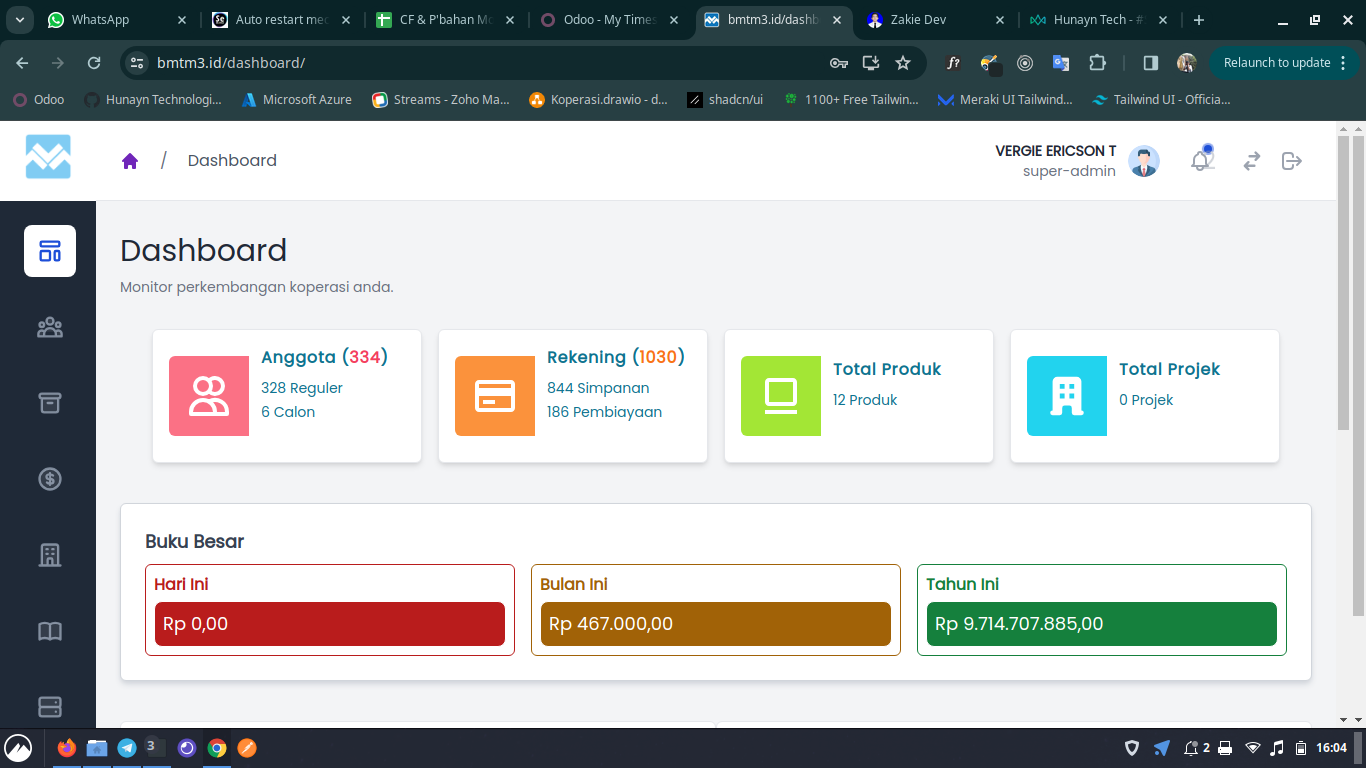
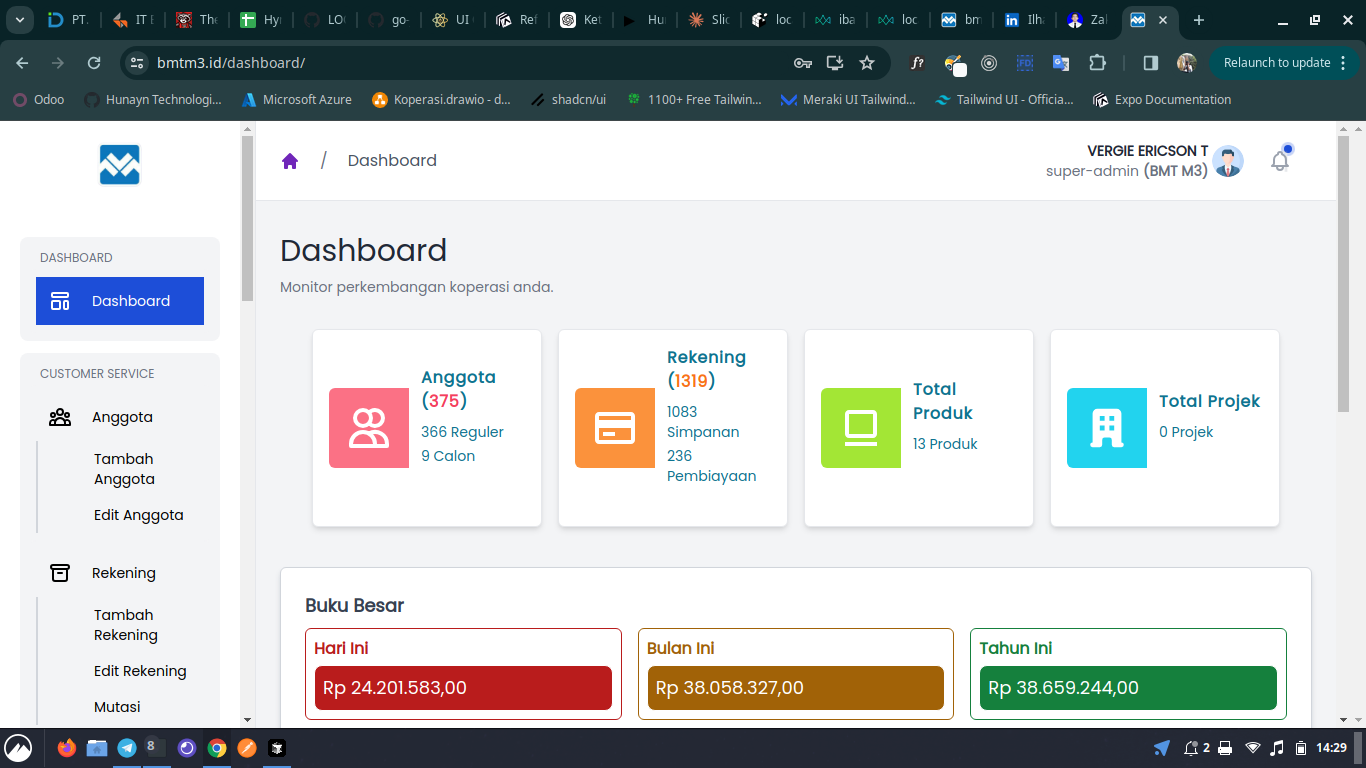
update web - 2januari2025

diff --git a/src/components/Details/Hunayn.js b/src/components/Details/Hunayn.js
@@ -3,8 +3,9 @@ import { useNavigate } from "react-router";
 import CompanyLogo from "../../assets/hunayn-logo.png";
 import { FaHome, FaFileAlt, FaPhotoVideo, FaYoutube } from "react-icons/fa";
 import Project1 from "../../assets/dashboard-syirkah.png";
-import Project2 from "../../assets/landing-company.png";
-import Project3 from "../../assets/jakarta-halal-expo.png";
+import Project2 from "../../assets/homescreen-ibank.png";
+import Project3 from "../../assets/landing-company.png";
+import Project4 from "../../assets/jakarta-halal-expo.png";
 import { motion } from "framer-motion";
 import { useProfile } from "../../context/ProfileContext";
 
@@ -38,15 +39,21 @@ const projects = [
   },
   {
     id: "project2",
-    title: "Landing Company",
-    description: "using svelte js",
+    title: "IBank Syirkah",
+    description: "using react native expo, typescript",
     imageUrl: Project2,
   },
   {
     id: "project3",
-    title: "Jakarta Halal Expo",
+    title: "Landing Company",
     description: "using svelte js",
     imageUrl: Project3,
+  },
+  {
+    id: "project4",
+    title: "Jakarta Halal Expo",
+    description: "using svelte js",
+    imageUrl: Project4,
   },
 ];
 
@@ -193,9 +200,8 @@ const Hunayn = () => {
           </div>
           <div className="w-full md:w-3/4 pt-4">
             <div
-              className={`grid ${
-                selectedProject ? "grid-cols-1" : "md:grid-cols-3"
-              } gap-4`}
+              className={`grid ${selectedProject ? "grid-cols-1" : "md:grid-cols-3"
+                } gap-4`}
             >
               {filteredProjects.map((project) => (
                 <motion.div

diff --git a/src/context/ProfileContext.js b/src/context/ProfileContext.js
@@ -37,7 +37,7 @@ export const ProfileProvider = ({ children }) => {
   useEffect(() => {
     setBioHome(
       "I am a software engineer with a passion for building web " +
-        "applications. I specialize in technologies such as Go, React, Node, " +
+        "applications. I specialize in technologies such as Go, React, React Native, Node, " +
         "JavaScript, JQuery, Ajax, MySQL, and Linux. With " +
         totalPengalaman.tahun +
         " year and " +
@@ -65,7 +65,7 @@ export const ProfileProvider = ({ children }) => {
   const [github, setGithub] = useState("programmercintasunnah");
   const [gitlab, setGitlab] = useState("zakiepragma");
   const [address, setAddress] = useState(
-    "Jl. Yos Sudarso, Limbungan Baru, Kec. Rumbai Pesisir, Kota Pekanbaru, Riau 28266"
+    "Jl. Uka, Simpang Baru, Kelurahan Air Putih, Tampan, Pekanbaru, Riau, Indonesia"
   );
   const [jobTitles, setJobTitles] = useState("Software Engineer");
 

diff --git a/src/components/Details/AboutDetail.js b/src/components/Details/AboutDetail.js
@@ -21,8 +21,7 @@ const personalData = [
   {
     label: "Address",
     value:
-      "Jl. Gulama, Tengkerang Barat, Kec. Marpoyan Damai, Kota " +
-      "Pekanbaru, Riau 28124, Indonesia",
+      "Jl. Uka, Simpang Baru, Kelurahan Air Putih, Tampan, Pekanbaru, Riau, Indonesia",
   },
 ];
 
